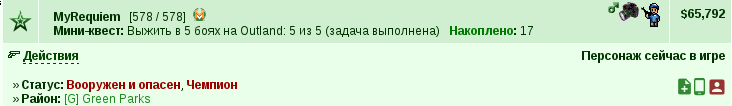
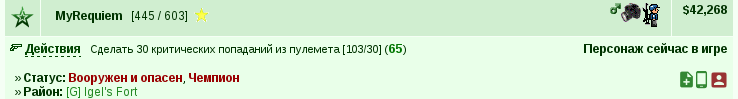
CurrentQuestOnInfo module updated

diff --git a/separatedScripts/CurrentQuestOnInfo/currentQuestOnInfo.user.js b/separatedScripts/CurrentQuestOnInfo/currentQuestOnInfo.user.js
@@ -8,12 +8,12 @@
 // @include         http://www.gwars.ru/info.php?id=*
 // @grant           none
 // @license         MIT
-// @version         1.04-170918
+// @version         1.05-031018
 // @author          MyRequiem [http://www.gwars.ru/info.php?id=2095458], идея kaa
 // ==/UserScript==
 
 /*global unsafeWindow */
-/*jslint browser: true, maxlen: 80, vars: true, nomen: true */
+/*jslint browser: true, maxlen: 80, vars: true, nomen: true, regexp: true */
 
 /*eslint-env browser */
 /*eslint no-useless-escape: 'warn', linebreak-style: ['error', 'unix'],
@@ -106,30 +106,34 @@
             var _this = this;
 
             this.ajax(url, function (xhr) {
-                var span = _this.doc.createElement('span');
-                span.innerHTML = xhr.responseText;
+                var spanContent = _this.doc.createElement('span');
+                spanContent.innerHTML = xhr.responseText;
 
                 // noinspection JSUnresolvedVariable
                 var cssSelector = 'td[valign="top"][align="right"]>' +
                         'a[href*="/help/index.php?sid="]',
-                    td = span.querySelector(cssSelector).parentNode.
-                        previousElementSibling,
+                    td = spanContent.querySelector(cssSelector).parentNode.
+                         previousElementSibling,
                     questDescr = td.firstElementChild.nextSibling.nodeValue,
-                    acQuests = /-квестов:<\/b>\s?(\d+)/.exec(td.innerHTML)[1],
-                    div = _this.doc.createElement('div');
+                    reg = /(.*):\s*(\d+) из (\d+)/.exec(questDescr),
+                    acQuests = /-квестов:<\/b>\s?(\d+)/.exec(td.innerHTML);
 
-                div.setAttribute('style', 'margin-left: 10px;');
-                div.innerHTML = '<span style="font-weight: bold;">Мини-квест:' +
-                    '</span> ' + questDescr + '<span style="font-weight: ' +
-                    'bold; margin-left: 10px;"><a target="_blank" ' +
-                    'style="color:#007700; text-decoration: none;" ' +
+                if (!reg || !acQuests) {
+                    return;
+                }
+
+                var span = _this.doc.createElement('span');
+                span.setAttribute('style', 'margin-left: 7px; font-size: 8pt;');
+                span.innerHTML = reg[1] + ' [' + reg[2] + '/' + reg[3] + '] ' +
+                    '(<a target="_blank" style="color:#007700; ' +
+                    'font-weight: bold; text-decoration: none;" ' +
                     'href="http://www.gwars.ru/help/index.php?' +
-                    'sid=102&pid=45">Накоплено</a>:</span> ' + acQuests;
+                    'sid=102&pid=45">' + acQuests[1] + '</a>)';
 
-                var target = _this.doc.querySelector('#namespan');
+                var target = _this.doc.querySelector('#actiondivin');
                 if (target) {
                     // новое оформление страницы информации о персонаже
-                    target = target.parentNode;
+                    target = target.firstElementChild;
                 } else {
                     // примитивное оформление страницы информации о персонаже
                     target = _this.doc.querySelector('td[class="wb"]' +
@@ -137,7 +141,7 @@
                             '[style="padding-top:3px;"]');
                 }
 
-                target.appendChild(div);
+                target.appendChild(span);
             }, function () {
                 _this.root.setTimeout(function () {
                     _this.showQuest(url);

diff --git a/_comfortablePlayingInGW.user.js b/_comfortablePlayingInGW.user.js
@@ -12322,30 +12322,34 @@
             var _this = this;
 
             new AjaxQuery().init(url, 'GET', null, true, function (xhr) {
-                var span = general.doc.createElement('span');
-                span.innerHTML = xhr.responseText;
+                var spanContent = general.doc.createElement('span');
+                spanContent.innerHTML = xhr.responseText;
 
                 // noinspection JSUnresolvedVariable
                 var cssSelector = 'td[valign="top"][align="right"]>' +
                         'a[href*="/help/index.php?sid="]',
-                    td = span.querySelector(cssSelector).parentNode.
+                    td = spanContent.querySelector(cssSelector).parentNode.
                         previousElementSibling,
                     questDescr = td.firstElementChild.nextSibling.nodeValue,
-                    acQuests = /-квестов:<\/b>\s?(\d+)/.exec(td.innerHTML)[1],
-                    div = general.doc.createElement('div');
+                    reg = /(.*):\s*(\d+) из (\d+)/.exec(questDescr),
+                    acQuests = /-квестов:<\/b>\s?(\d+)/.exec(td.innerHTML);
 
-                div.setAttribute('style', 'margin-left: 10px;');
-                div.innerHTML = '<span style="font-weight: bold;">Мини-квест:' +
-                    '</span> ' + questDescr + '<span style="font-weight: ' +
-                    'bold; margin-left: 10px;"><a target="_blank" ' +
-                    'style="color:#007700; text-decoration: none;" ' +
+                if (!reg || !acQuests) {
+                    return;
+                }
+
+                var span = general.doc.createElement('span');
+                span.setAttribute('style', 'margin-left: 7px; font-size: 8pt;');
+                span.innerHTML = reg[1] + ' [' + reg[2] + '/' + reg[3] + '] ' +
+                    '(<a target="_blank" style="color:#007700; ' +
+                    'font-weight: bold; text-decoration: none;" ' +
                     'href="http://www.gwars.ru/help/index.php?' +
-                    'sid=102&pid=45">Накоплено</a>:</span> ' + acQuests;
+                    'sid=102&pid=45">' + acQuests[1] + '</a>)';
 
-                var target = general.doc.querySelector('#namespan');
+                var target = general.doc.querySelector('#actiondivin');
                 if (target) {
                     // новое оформление страницы информации о персонаже
-                    target = target.parentNode;
+                    target = target.firstElementChild;
                 } else {
                     // примитивное оформление страницы информации о персонаже
                     target = general.doc.querySelector('td[class="wb"]' +
@@ -12353,7 +12357,7 @@
                             '[style="padding-top:3px;"]');
                 }
 
-                target.appendChild(div);
+                target.appendChild(span);
             }, function () {
                 general.root.setTimeout(function () {
                     _this.showQuest(url);
